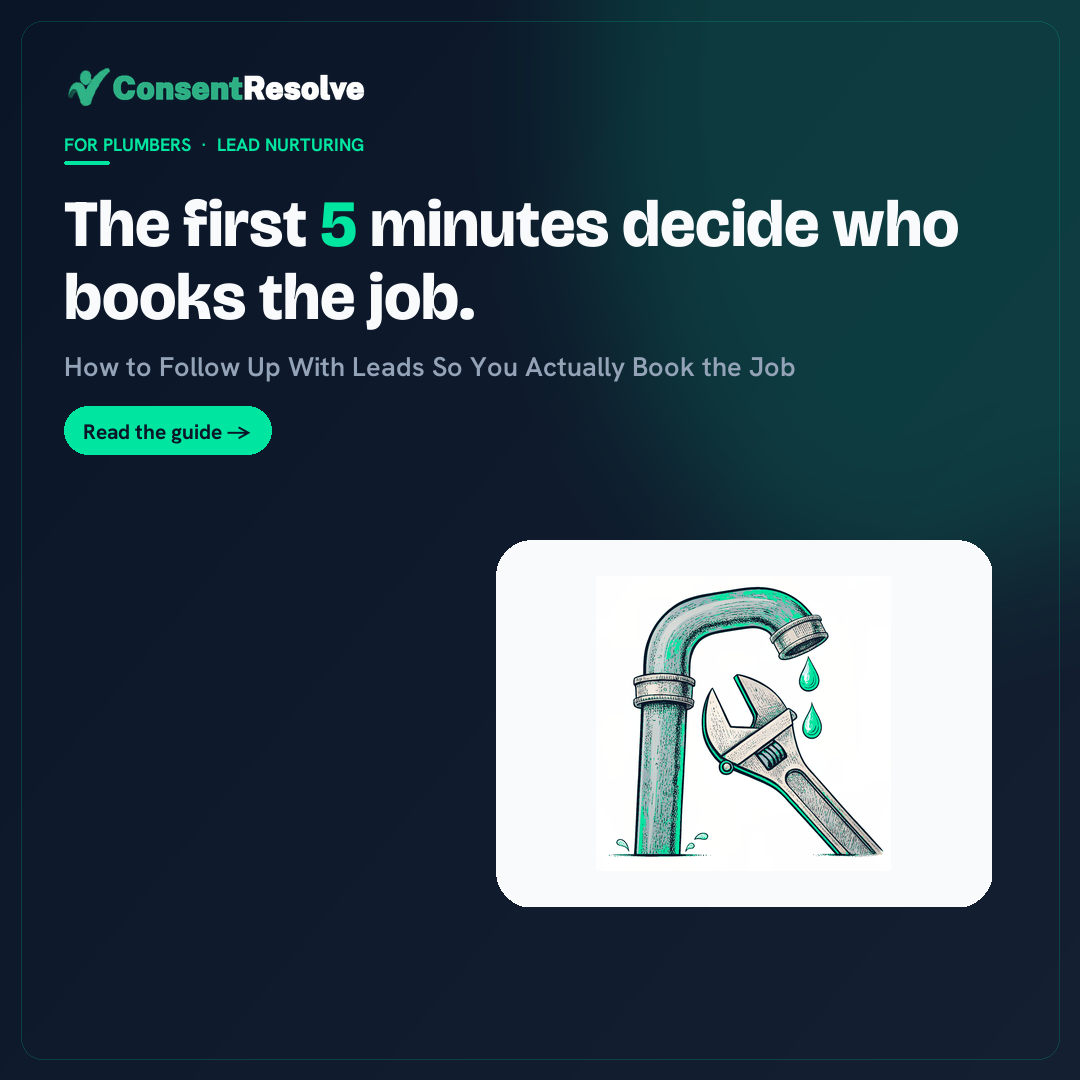
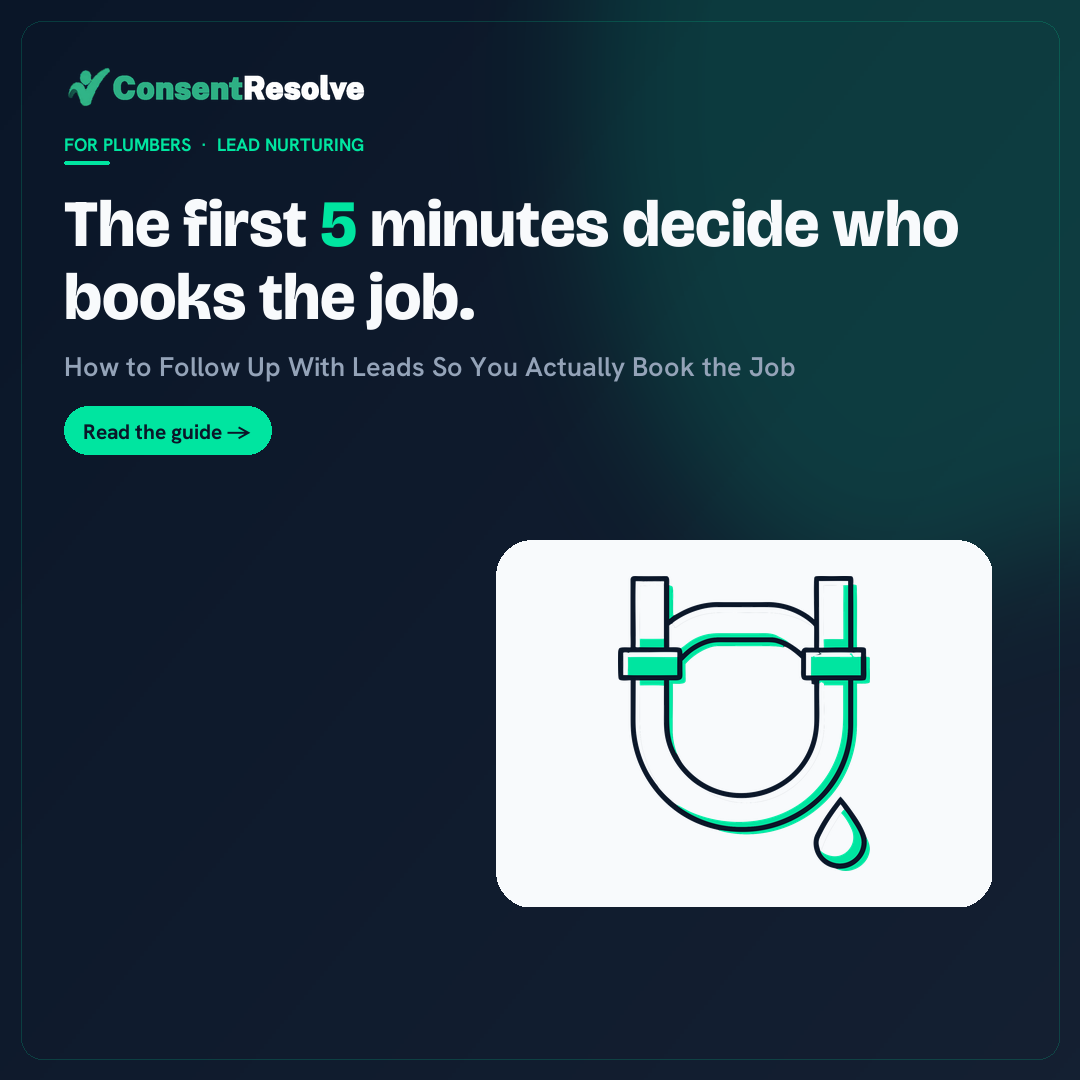
Image gen: site-style now uses the REAL trade SVG (qlmanage raster + white knockout) for an exact website match; refresh plumber previews

Changed region(s): [[0.55, 0.5194, 0.825, 0.825]]

diff --git a/scripts/generate-resource-images.py b/scripts/generate-resource-images.py
@@ -23,8 +23,11 @@ Usage:
   python3 scripts/generate-resource-images.py                    # all resources
 """
 import argparse
+import glob
 import json
+import os
 import re
+import subprocess
 import sys
 import urllib.request
 import urllib.error
@@ -240,6 +243,45 @@ SITE_STYLE_BASE = (
     "Modern, confident, trustworthy tone. Plain white background. NO eyes, NO "
     "surveillance camera, NO spying imagery, NO lettering, NO numbers."
 )
+
+
+TRADE_SVG_DIR = ROOT / "public" / "illustrations" / "trades"
+
+
+def real_trade_art(trade):
+    """Rasterize the ACTUAL site trade illustration SVG (closest possible match
+    to the website look) via macOS Quick Look. Returns PIL RGBA, or None."""
+    cache = CACHE / f"trade-{trade}-real.png"
+    if cache.exists():
+        return Image.open(cache).convert("RGBA")
+    matches = sorted(glob.glob(str(TRADE_SVG_DIR / f"*-{trade}.svg")))
+    if not matches:
+        return None
+    tmp = CACHE / "_ql"
+    tmp.mkdir(parents=True, exist_ok=True)
+    for f in glob.glob(str(tmp / "*.png")):
+        os.remove(f)
+    subprocess.run(["qlmanage", "-t", "-s", "2048", "-o", str(tmp), matches[0]],
+                   capture_output=True)
+    pngs = glob.glob(str(tmp / "*.png"))
+    if not pngs:
+        return None
+    img = Image.open(pngs[0]).convert("RGBA")
+    img.save(cache)
+    return img
+
+
+def trim_knockout(img, thresh=244):
+    """Knock the near-white background out to transparent and crop to content,
+    so the navy-outlined illustration sits cleanly on a light inset."""
+    arr = np.asarray(img.convert("RGBA")).astype(np.uint8)
+    rgb = arr[..., :3]
+    near_white = (rgb[..., 0] >= thresh) & (rgb[..., 1] >= thresh) & (rgb[..., 2] >= thresh)
+    a = arr[..., 3].copy()
+    a[near_white] = 0
+    im = Image.fromarray(np.dstack([rgb, a]))
+    bbox = im.getbbox()
+    return im.crop(bbox) if bbox else im
 
 
 def brand_snap(img):
@@ -540,11 +582,19 @@ def main():
         else:
             out_dir = ROOT / "public" / "images" / "resources" / seg
         out_dir.mkdir(parents=True, exist_ok=True)
-        if args.trade:
-            bg = fetch_trade_bg(args.trade, site=args.site_style)
+        if args.site_style and args.trade:
+            # Closest match: the ACTUAL site trade SVG, rasterized + knocked out.
+            real = real_trade_art(args.trade)
+            if real is not None:
+                art = trim_knockout(real)
+            else:
+                art = brand_snap(Image.open(fetch_trade_bg(args.trade, site=True)))
+        elif args.trade:
+            art = render_ink(Image.open(fetch_trade_bg(args.trade)))
+        elif art_mode == "card":
+            art = brand_snap(Image.open(fetch_background(slug)))
         else:
-            bg = fetch_background(slug)
-        art = brand_snap(Image.open(bg)) if art_mode == "card" else render_ink(Image.open(bg))
+            art = render_ink(Image.open(fetch_background(slug)))
         suffix = f"-{args.trade}" if args.trade else ""
         style_tag = "-site" if args.site_style else ""
         for v in variants:
